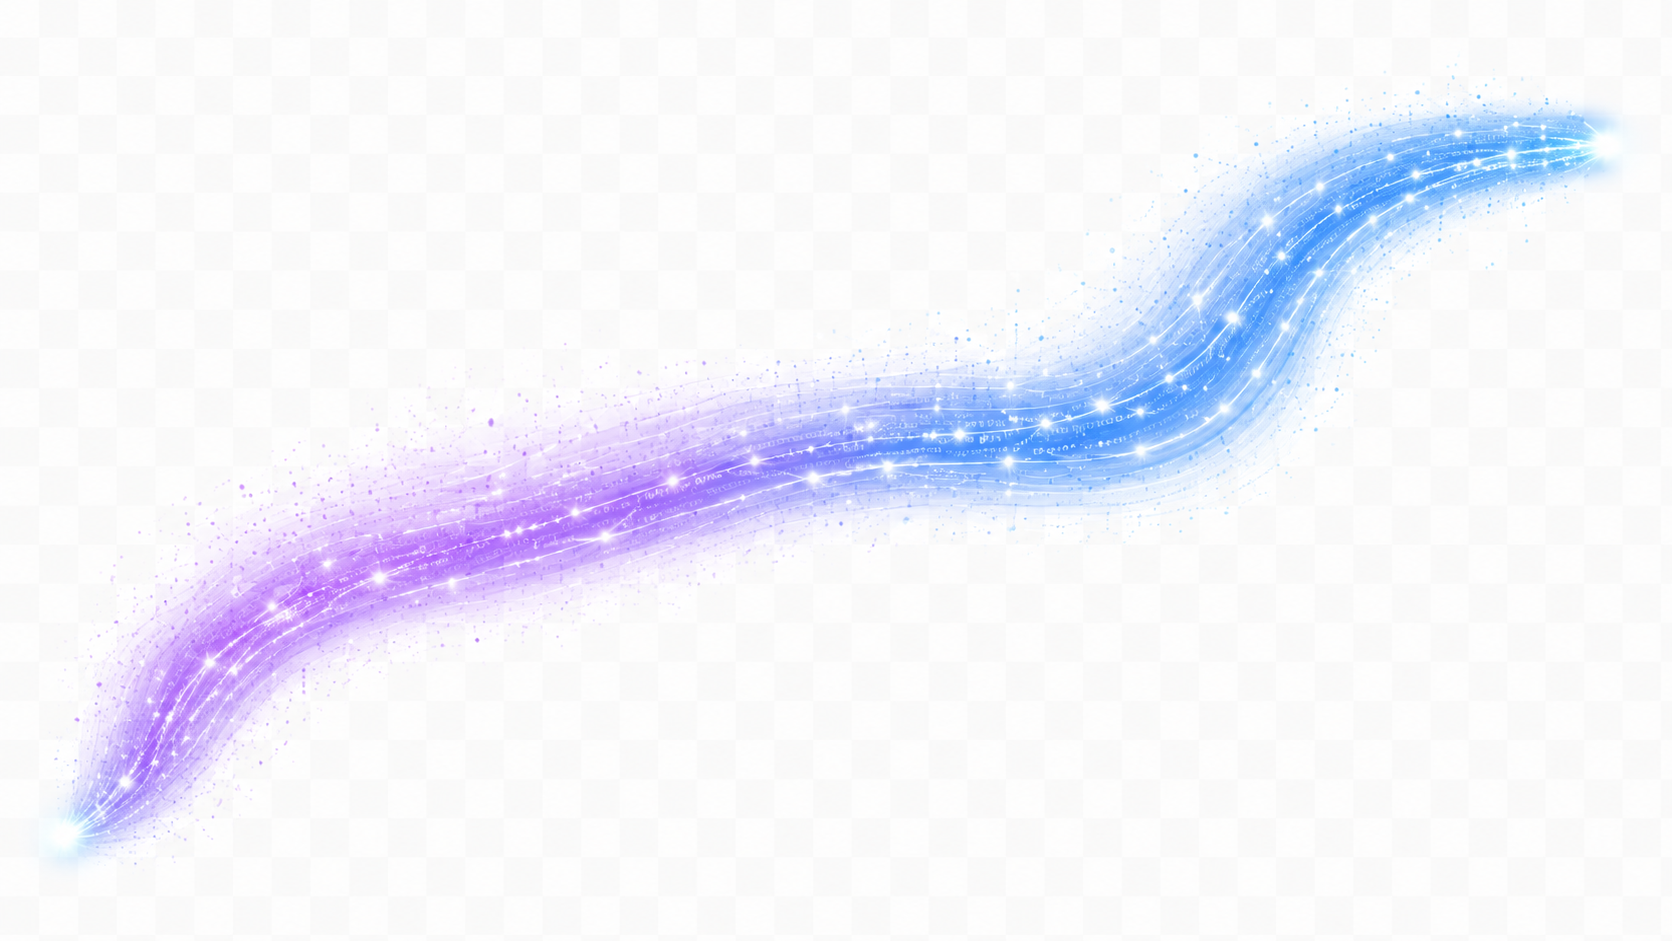
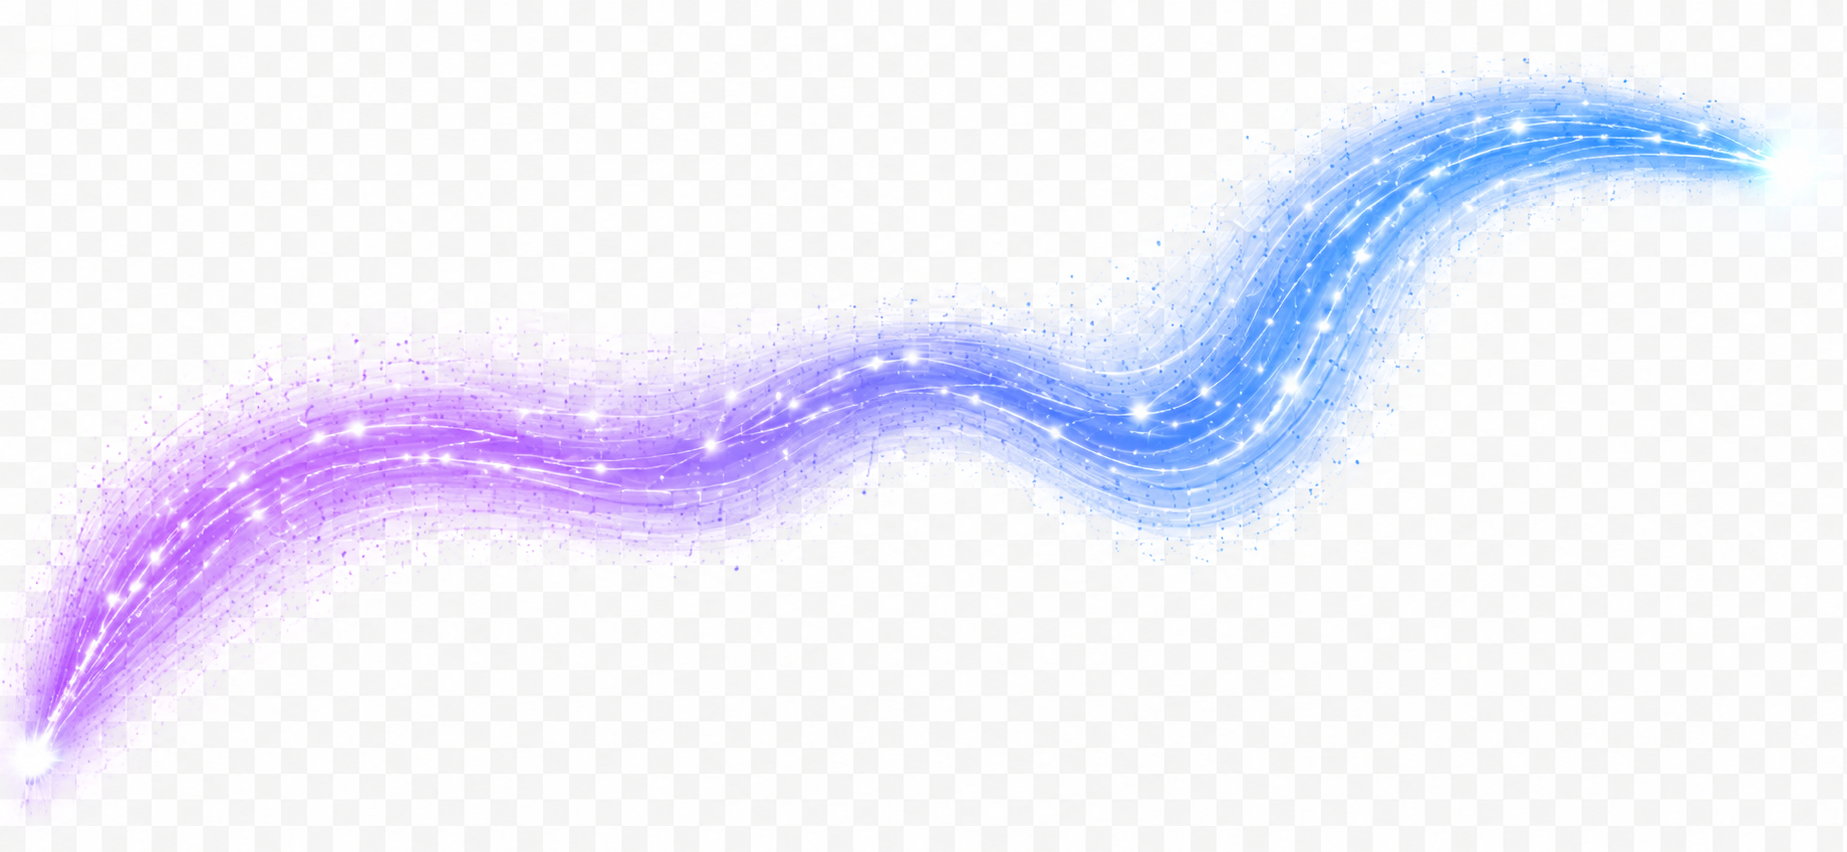
auto-commit for 9691d90c-49ce-4e64-8198-eab3bc58cc9d

Changed region(s): [[0.0, 0.0915, 0.9641, 0.9155], [0.0, 0.9155, 0.0311, 0.946]]

diff --git a/frontend/src/components/site/DataRiverOverlay.jsx b/frontend/src/components/site/DataRiverOverlay.jsx
@@ -1,18 +1,18 @@
-import React, { useEffect, useLayoutEffect, useRef, useState } from "react";
+import React, { useLayoutEffect, useRef, useState } from "react";
 
-// Part A: place the pre-rendered glowing light-stream PNG statically between the
-// two circles. Blue end (top-right of source) -> urban circle; purple end
-// (bottom-left of source) -> rural circle. No animation yet (Part B adds motion).
+// Part A: place the final approved glowing light-stream PNG statically between
+// the two circles. Blue end (top-right of source) -> INSIDE urban circle;
+// purple end (bottom-left of source) -> enters rural circle from its LEFT side.
+// No animation yet (Part B adds scroll-reveal + motion).
 
-const IMG_W = 1672;
-const IMG_H = 941;
+const IMG_W = 1847;
+const IMG_H = 852;
 const ASPECT = IMG_W / IMG_H;
-// bright tips of the stream, as fractions of the source image
-const BLUE = { fx: 0.97, fy: 0.16 }; // -> urban
-const PURPLE = { fx: 0.04, fy: 0.87 }; // -> rural
-// vector (blue - purple) in a unit-width image, used for base angle/length
-const VDX = (BLUE.fx - PURPLE.fx); // 0.93
-const VDY = (BLUE.fy - PURPLE.fy) / ASPECT; // in display units per unit width
+// bright concentrated tips of the stream, as fractions of the source image
+const BLUE = { fx: 0.96, fy: 0.2 }; // -> urban
+const PURPLE = { fx: 0.025, fy: 0.88 }; // -> rural
+const VDX = BLUE.fx - PURPLE.fx;
+const VDY = (BLUE.fy - PURPLE.fy) / ASPECT;
 const VLEN = Math.hypot(VDX, VDY);
 const VANG = (Math.atan2(VDY, VDX) * 180) / Math.PI;
 
@@ -31,9 +31,10 @@ export default function DataRiverOverlay({ containerRef }) {
       const U = { x: ur.left - wr.left + ur.width / 2, y: ur.top - wr.top + ur.height / 2, R: ur.width / 2 };
       const R = { x: rr.left - wr.left + rr.width / 2, y: rr.top - wr.top + rr.height / 2, R: rr.width / 2 };
 
-      // anchor points slightly INSIDE each circle (underlap → circle covers the excess)
-      const Tu = { x: U.x - U.R * 0.12, y: U.y + U.R * 0.28 }; // blue → urban lower-interior
-      const Tr = { x: R.x - R.R * 0.05, y: R.y - R.R * 0.12 }; // purple → rural upper-left interior
+      // blue -> deep inside urban lower-interior (underlaps, circle covers excess)
+      const Tu = { x: U.x - U.R * 0.08, y: U.y + U.R * 0.34 };
+      // purple -> crosses rural's LEFT edge (~9 o'clock, centre height), slightly interior
+      const Tr = { x: R.x - R.R * 0.82, y: R.y };
 
       const Vx = Tu.x - Tr.x;
       const Vy = Tu.y - Tr.y;
@@ -42,10 +43,8 @@ export default function DataRiverOverlay({ containerRef }) {
       const Hd = Wd / ASPECT;
       const angTgt = (Math.atan2(Vy, Vx) * 180) / Math.PI;
       const theta = angTgt - VANG;
-      const p0x = PURPLE.fx * Wd;
-      const p0y = PURPLE.fy * Hd;
-      const tx = Tr.x - p0x;
-      const ty = Tr.y - p0y;
+      const tx = Tr.x - PURPLE.fx * Wd;
+      const ty = Tr.y - PURPLE.fy * Hd;
 
       setStyle({
         width: `${Wd}px`,
@@ -72,7 +71,7 @@ export default function DataRiverOverlay({ containerRef }) {
 
   return (
     <img
-      src="/river-stream.png"
+      src="/river-stream-v2.png"
       alt=""
       aria-hidden="true"
       draggable="false"
